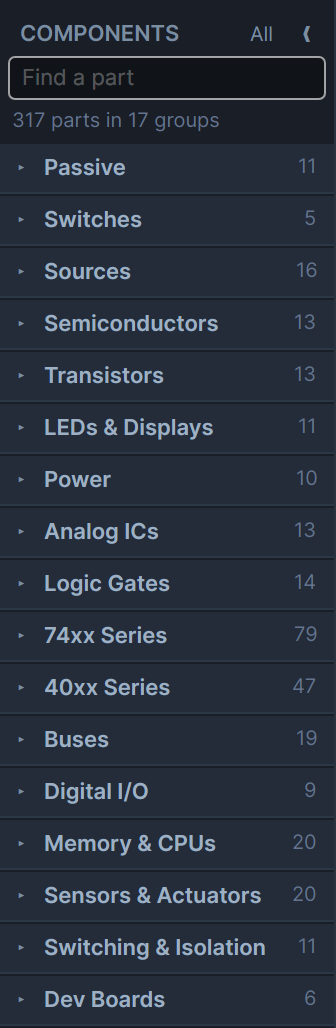
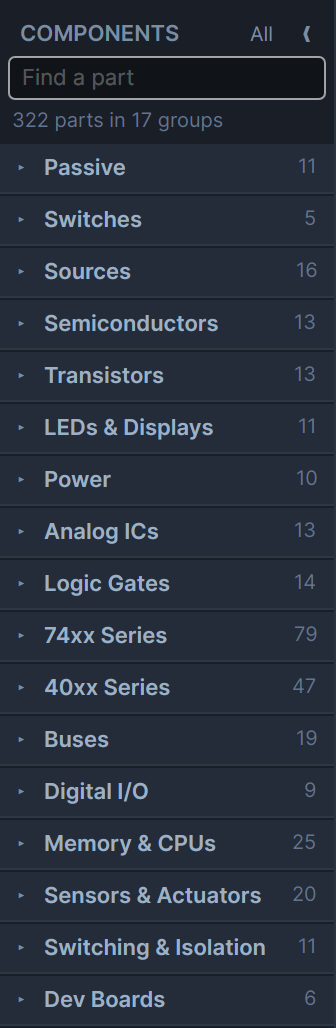
Document 0.46.0: the 6809 and its peripherals, and retake the palette
CHANGELOG gets 0.46.0 with its compare links; README gets the feature
paragraph, the 6809 row in the test table and the counts (322 parts, 112
examples, 37 tools, ten recipes, 4928 tests); AGENTS.md notes where the
6809 lives, how its core yields E cycles and looks a cycle ahead for the
6809E's LIC and AVMA, that the external suite is run locally, and how the
6800-family peripherals act on E. The palette picture is retaken (322
parts, Memory & CPUs 25).

Changed region(s): [[0.0893, 0.0934, 0.6548, 0.1245], [0.8929, 0.8093, 0.9524, 0.8405]]

diff --git a/README.md b/README.md
@@ -52,7 +52,7 @@ Core ← Engine ← Components ← UI, which keeps the whole engine headless-tes
 ```bash
 dotnet run --project src/Cirq.UI     # the editor
 dotnet run --project src/Cirq.Cli    # the same engine, no window
-dotnet test                          # 4780 tests
+dotnet test                          # 4928 tests
 ./scripts/build-guide.sh             # the user guide as a PDF
 ```
 
@@ -617,6 +617,7 @@ one passes against a button that would never have fired.
 | 6502 computer | The self-check running from ROM through the analog solve with no undefined bus reads, the bus cycles a microsecond apart and disassembled, reset holding and restarting, a ROM too slow for a 6 MHz clock giving the wrong bytes, the 6522's ports, Timer 1 free-running a 100-cycle square wave on PB7 while its interrupt is counted, Timer 2 counting PB6 pulses, CA1 interrupting and CA2 handshaking, the 6551's greeting reaching a terminal and the terminal's text echoed back, the HD44780's busy flag and display memory read back, and the examples' ROMs holding exactly the programs the guide prints |
 | 6510, CIA and SID | The 6510's pinout, its port's direction and data registers driving and reading P0-P5 while the RAM underneath takes the writes, reset releasing the port, AEC releasing the buses, and the self-check and bus decode on the shared core; every 6526 register from a program — ports read at the pins through their pull-ups, /PC, both timers continuous and one-shot with PB6 toggling and PB7 pulsing, force load, timer B counting A's underflows, CNT edges and gated by CNT, the time of day set, stopped, latched, rolled over at 11:59 and 12:59 and alarmed, the serial port out MSB first and in on CNT, /FLAG, the mask writes and /IRQ a cycle after its flag; the SID's oscillators, every waveform, the noise register, sync, ring modulation and test, the envelope's datasheet times, exponential decay, sustain, hold at zero and delay bug, the readback registers and the mix; AUDIO OUT at half VDD, the filter's low-, band- and high-pass gain against a second-order response, moving when its capacitors are doubled, resonance at its Q, the 6581's volume offset, and the paddles timed from their R and C; the SID player playing its first bar and the keypad's keys reaching the LCD |
 | 68000 and its peripherals | Results and flags, the user's manual's clocks for each kind of instruction, the reset sequence reading the stack pointer and PC in supervisor program space, every group 1 and 2 exception's stacked PC and SR, the address error's seven-word frame, a bus error, trace, privilege violations from user mode, autovectored and vectored interrupts under the mask, level 7 once per rise, STOP waking on an interrupt, RESET's 124 clocks, a self-checking program assembled by the test-side assembler, the disassembler reading back what was assembled and agreeing with the core on all 65,536 opcodes; on a schematic, ROM and RAM pairs taking words and bytes, one and two wait states from a 74164 DTACK generator, waiting forever without /DTACK, /BERR's bus error, /VPA's 6800 cycle on E and /VMA, the interrupt acknowledge on the pins, /BR and /BG floating the bus, /HALT, /RESET both ways and the bus decode; the 68681's channels to a terminal and looped back with overrun, a break and a framing error, its timer on OP3, counter, output port commands, input port changes and a vectored interrupt; the 68230's bit I/O, double-buffered input and output with their interlocked handshakes, 16-bit mode, port C, timer square wave and both vectored interrupts; the 68901's GPIP edges in software end-of-interrupt mode, timer A's delay-mode interrupts, timer B counting events, timer A measuring a pulse, the USART on timer D to a terminal and the daisy chain passing an acknowledge on; both examples running and their ROM pairs holding exactly the programs the guide prints. Locally the core also matches 995,590 of the 1,000,060 cases of the published 68000 per-instruction suite in every register, byte, bus cycle and clock; the rest are where it follows the manual, and are listed in the guide |
+| 6809 and its peripherals | Results and flags for each instruction group as the programming manual gives them, the manual's cycles for every indexed mode, the dead cycles on the bus, the stacking of IRQ, FIRQ, NMI and the SWIs with the E flag, NMI armed only by loading S, SYNC releasing the bus, CWAI, /HALT, /DMA/BREQ with its refresh cycle, reset through $FFFE, the undefined opcodes, a self-checking program assembled by the test-side assembler, and the disassembler and assembler reading each other back for every documented opcode; on a schematic, the self-check from an EPROM through a real bus on both the 6809 and a 6809E clocked by a 7474, E and Q in quadrature, MRDY stretching cycles, SYNC and /HALT floating the bus with BA and BS, LIC, AVMA, BUSY and TSC, and the bus decode; the 6821's port A reading its loaded pins against port B reading its register, CA1 and CB1 interrupts, CA2's handshake and pulse, CB2's write strobe and /RESET, on the 6809 and from a 68000 through /VPA; the 6850 waiting for its master reset, greeting the terminal and read by the UART decoder, echoing by interrupt, the overrun and lost-carrier sequences, CTS and RTS, 8E1, and sending from a 68000; both examples running and their EPROMs holding exactly the programs the guide prints. Locally the core also matches all 315,000 cases of a published per-instruction 6809 suite in every register, byte and bus cycle |
 | LM339 | Per-channel comparison, wired-AND when outputs are tied, release when unpowered |
 | Regulators | Line and load regulation, dropout, current limiting, LM317 divider programming |
 | BJT | Beta in forward active, saturation, cutoff, exponential Vbe, PNP mirroring, KCL at all three terminals |
@@ -694,7 +695,7 @@ one passes against a button that would never have fired.
 | Arrange | Aligning left, right, top and bottom by the parts' edges and the two centre lines by their middles, a centre being the average so a selection does not drift, distributing leaving the two outermost exactly where they were with equal gaps between the rest, parts already in line left alone so nothing lands in the undo history for a move that did not happen, and everything rounded back onto the grid when snapping is on |
 | Find on sheet | An exact designator beating one that merely starts with the term, values and kinds and net names after that, case never mattering, a named net being one row however many parts are on it, blocks searched inside, and nothing matching nothing |
 | Compare | Two copies of one circuit differing in nothing, a changed value read as one line, parts matched by identity so a renamed and moved part is two changes rather than a removal and an addition, a wire being the pair of pins it joins so redrawing it through a corner or the other way round is not a change, rounding through a save not counting as an edit, probes and requirements and conditions compared, and a summary that counts moves without leading with them |
-| Explain | A divider's tap in volts and a loaded one refused, a low-pass told from a high-pass with the corner, a tuned circuit peaking or dipping, decoupling, pull-ups, an LED's current, an op-amp's gain inverting and non-inverting and as a follower, emitter followers and common-emitter stages, a flyback diode that is not an LED, a 555's frequency and duty — and silence on anything it does not recognise, proved across all 110 shipped examples |
+| Explain | A divider's tap in volts and a loaded one refused, a low-pass told from a high-pass with the corner, a tuned circuit peaking or dipping, decoupling, pull-ups, an LED's current, an op-amp's gain inverting and non-inverting and as a follower, emitter followers and common-emitter stages, a flyback diode that is not an LED, a 555's frequency and duty — and silence on anything it does not recognise, proved across all 112 shipped examples |
 | Design report | A whole HTML document with nothing fetched from anywhere, the verdict before everything else, the schematic as selectable SVG with no stray declaration, requirements coloured by met and not met and not measurable, one row per part and value, the conditions always stated, everything a person typed escaped, and a report without a drawing still a report |
 | Windows | A second editor with its own circuit, simulation, scope and history; a clipboard shared between them because carrying a block across is what they are for; a recovery snapshot each so two cannot overwrite each other's work; and every abandoned snapshot offered back in a window of its own |
 | Colour codes | The value as it is written on the part, drawn beside the numbers — four bands at five percent and five at one, because you cannot promise one percent on a value you only spelled to two figures; gold and silver multipliers that divide, so a 4R7 is yellow-violet-gold; the wider gap that says which end to read from; a ceramic's three digits counted in picofarads and an inductor's bands in microhenries; the tolerance band rounded to the tighter promise rather than the looser one; a value the code cannot spell saying so and saying what it does spell; every marking also read out in words; and an electrolytic given none, because its value is printed on the can in plain microfarads |
@@ -907,7 +908,13 @@ attached to it, and any part that said it had not settled — all of which name 
 drawing to go and look, which "try a smaller time step" does not.
 
 The palette holds 322 components in 17 collapsible categories, with a **Find a part** box
-(`Ctrl+F`) over them. Among the newest: **a 68000 to build a board around** — the MC68000 running
+(`Ctrl+F`) over them. Among the newest: **a 6809 and its peripherals** — the MC6809 running all
+three opcode pages and every indexed mode cycle by cycle on its pins, dead cycles and all, with E and
+Q from its own clock, MRDY, SYNC, CWAI, /HALT and DMA, checked against a published per-instruction
+6809 suite; the 6809E with TSC, LIC, AVMA and BUSY; the 6821 PIA (and the 6520) with its pulled-up
+port A and three-state port B; and the 6850 ACIA clocked from its own pins — with a 6809
+single-board computer running a monitor and a 6821 counting a button's presses by interrupt as
+examples. Before that: **a 68000 to build a board around** — the MC68000 running
 its whole instruction set bus cycle by bus cycle on its 64 pins, waiting on /DTACK, with its
 exceptions, interrupts, 6800 cycles and bus arbitration, checked against the published 68000 test
 suite; the 68681 DUART, 68230 PI/T and 68901 MFP; and memory images in S-records split across a
@@ -933,7 +940,7 @@ tri-state buffer, a TIP120 Darlington, LM35 and TMP36 thermometers, a WS2812B Ne
 matrix keypad, Raspberry Pi Pico and ESP32 boards, and the 7483 / 74283 adders and 74192 / 74193
 up/down counters.
 
-![The component palette: a Find a part box at the top, "317 parts in 17 groups" under it, and the seventeen categories with their counts — passive 11, switches 5, sources 16, semiconductors 13, transistors 13, LEDs and displays 11, power 10, analog ICs 13, logic gates 14, 74xx series 79, 40xx series 47, buses 19, digital I/O 9, memory and CPUs 20, sensors and actuators 20, switching and isolation 11, dev boards 6 — every group closed, so all seventeen headings fit on screen at once](docs/images/02-palette.png)
+![The component palette: a Find a part box at the top, "322 parts in 17 groups" under it, and the seventeen categories with their counts — passive 11, switches 5, sources 16, semiconductors 13, transistors 13, LEDs and displays 11, power 10, analog ICs 13, logic gates 14, 74xx series 79, 40xx series 47, buses 19, digital I/O 9, memory and CPUs 25, sensors and actuators 20, switching and isolation 11, dev boards 6 — every group closed, so all seventeen headings fit on screen at once](docs/images/02-palette.png)
 
 Selecting a component fills the properties panel. It is built by reflection, so a new component
 type gets a complete editor without any UI code:

diff --git a/CHANGELOG.md b/CHANGELOG.md
@@ -8,6 +8,51 @@ Add the new section **before** tagging: the workflow reads the changelog at the 
 
 ## [Unreleased]
 
+## [0.46.0] - 2026-11-05
+
+The Motorola 6809 and its peripherals. An MC6809 that runs all three opcode pages and every indexed
+mode cycle by cycle on its 40 pins — dead cycles and all — with its own E and Q clock, and the
+6809E clocked from outside; the 6821 PIA (and the 6520) and the 6850 ACIA to build a board with,
+and to hang on a 68000. Two 6809 computers as examples. 322 components in 17 categories, 112 worked
+examples, 4928 tests.
+
+### Added
+
+**The MC6809**, written from Motorola's datasheet and programming manual: every instruction on its
+three opcode pages, every addressing mode — the indexed ones with their constant, accumulator and
+PC offsets, auto increment and decrement and every indirect form — at the manual's cycle counts,
+TFR and EXG, the two stacks, SYNC and CWAI, SWI, SWI2 and SWI3, FIRQ stacking only PC and CC where
+NMI and IRQ stack everything, and NMI held off until the program has loaded S. Every cycle is on the
+bus as the chip puts it there, the dead ($FFFF) cycles included. The opcodes Motorola left
+undefined run deterministically, as the guide lists. Checked against a published per-instruction
+6809 suite (315,000 cases, every bus cycle of each): it agrees with all of them, and the guide says
+where the suite comes from and what that means.
+
+**The 6809's pins.** EXTAL at four times the bus rate, E and Q out in quadrature; MRDY stretching a
+slow cycle a quarter at a time; BA and BS saying whether it is running, fetching a vector, in SYNC or
+halted; /HALT and /DMA/BREQ letting go of the bus; /IRQ, /FIRQ and /NMI; reset through $FFFE. **The
+6809E** takes E and Q in and adds TSC, LIC, AVMA and BUSY.
+
+**The 6821 PIA** — two ports with direction registers, CA1/CB1 interrupts on the edge you choose,
+CA2/CB2 as inputs or as handshake, pulse or manual outputs, and port A's pull-ups against port B's
+three-state drivers, as on the real part. **The 6520** is the same chip from MOS. **The 6850 ACIA** —
+every word format, ÷1, ÷16 and ÷64, the documented overrun and lost-carrier sequences, CTS and RTS,
+and its clocks taken from its own pins. Both work on a 68000 through /VPA, /VMA and E, and the 6850
+talks to the Serial Terminal.
+
+**Two examples in File > Examples > Computers.** *6809 Single-Board Computer*: an EPROM, a RAM, a
+74138 and a 7400 decoding, and a 6850 clocked from E at 115,200 baud running a small monitor that
+dumps memory for the terminal. *6809 PIA Button Counter*: the same board with a 6821 driving an
+HD44780 and counting a button's presses by interrupt from CA1. The guide prints both programs; a
+test checks the EPROMs hold them.
+
+**Simulate > Decode Bus** reads a 6809's bus: each cycle, the dead ones and the vector reads marked,
+and each instruction disassembled where it starts.
+
+**Agent tools.** `cpu_state` and `disassemble` work for the 6809 (its registers, DP and CC and its
+flags, its cycles; its code with the vectors), `peripheral_state` reports a 6821, 6520 or 6850, and a
+`computer_6809` recipe tours the example. 37 tools and ten recipes.
+
 ## [0.45.0] - 2026-11-05
 
 The Motorola 68000 and its peripherals. An MC68000 that runs its whole instruction set bus cycle by
@@ -2666,7 +2711,8 @@ First public build of CirqAvalonia — an electronic circuit analyzer and mixed-
 
 **501 tests** measure the solver against closed-form answers rather than recorded output.
 
-[Unreleased]: https://github.com/Harlock123/CIRQAvalonia/compare/v0.45.0...HEAD
+[Unreleased]: https://github.com/Harlock123/CIRQAvalonia/compare/v0.46.0...HEAD
+[0.46.0]: https://github.com/Harlock123/CIRQAvalonia/compare/v0.45.0...v0.46.0
 [0.45.0]: https://github.com/Harlock123/CIRQAvalonia/compare/v0.44.1...v0.45.0
 [0.44.1]: https://github.com/Harlock123/CIRQAvalonia/compare/v0.44.0...v0.44.1
 [0.44.0]: https://github.com/Harlock123/CIRQAvalonia/compare/v0.43.0...v0.44.0

diff --git a/AGENTS.md b/AGENTS.md
@@ -50,6 +50,11 @@ dotnet run --project src/Cirq.UI -- --mcp      # the MCP server on stdio, headle
     instructions), `Cpu68000` (the DIP-64 part, its S0-S7 states on CLK), `M68000Disassembler`,
     `Cpu68000BusDecoder`, and the peripherals `Duart68681`, `Pit68230` and `Mfp68901`, the two UARTs
     sharing `SerialLine`.
+  - And the 6809: `M6809Core` (two partial files: the bus and interrupts, the addressing and
+    instructions), `Opcodes6809` (the three opcode pages and the disassembler), `Cpu6809.cs`
+    (`Processor6809`, with `Cpu6809` clocked from EXTAL and `Cpu6809E` from E and Q pins),
+    `Cpu6809BusDecoder`, and the 6800-family peripherals `Pia6821.cs` (`PeripheralInterfaceAdapter`,
+    the `Pia6821` and `Pia6520` parts) and `Acia6850`, which also uses `SerialLine`.
   - `Serialization/` reads and writes `.cirq` files (indented JSON).
   - `Spice/` imports and exports SPICE models and netlists.
 - `src/Cirq.UI/`: the Avalonia editor.
@@ -136,6 +141,22 @@ dotnet run --project src/Cirq.UI -- --mcp      # the MCP server on stdio, headle
   the suite and Motorola's manual disagree (ADDQ.L/SUBQ.L to An timing, ASR's carry past the width)
   the core follows the manual; the guide lists the counts. The 68000 examples' ROMs are byte arrays
   in `Examples.M68000.cs`, checked against the guide's source by a UI test.
+- **The 6809 core is a sequence of bus cycles as well.** `M6809Core` yields once per E cycle, dead
+  cycles ($FFFF reads) and don't-care reads included; `FirstCycle` marks where an instruction (or an
+  interrupt sequence) starts, and `Step` runs to the next. The 6809E's LIC and AVMA need the next
+  cycle before this one's data: `PeekNext` replays the instruction so far on a copy of the core
+  (`TracksNextCycle` keeps what it needs, on for the 6809E only), so a change to the core's cycles
+  carries into those pins by itself. Test with `Cpu6809CoreTests` (the test-side `Assembler6809`,
+  which reads back everything the disassembler prints), `Cpu6809CircuitTests` (a board with a 2764,
+  a 62256, a 74138 and a 7400, which the PIA and ACIA tests reuse; a 7474 makes a 6809E's E and Q),
+  and locally against the SingleStepTests-format suite `neetandev/m6809` (`v1`, MAME as its
+  oracle), downloaded outside the repository and never committed. The 6809 examples' EPROM images
+  are byte arrays in `Examples.M6809.cs`, checked against the guide's source by a UI test.
+- **6800-family peripherals act on E.** The 6821 and 6850 latch a write and do a read's side
+  effects as E falls, and drive a read while E is high and they are selected, so on a 68000 they
+  want /VPA from the decode and /VMA on a chip select. The 6821's port A pull-ups are stamped
+  resistors (`PeripheralInterfaceAdapter.PullUpResistance`); the 6850 times its bits from the
+  measured period of its TxCLK and RxCLK pins.
 - **One 6502 core, several packages.** `Processor6502` builds its pins from a `ProcessorPackage`
   (65C02, 6502, 6510); the core is shared, never copied. The 6510's port lives in `Processor6510`
   through the base's hooks (`ReadInternal`, `WriteInternal`, `EndCycle`, `ResetPort`): a $0000/$0001

diff --git a/docs/USER_GUIDE.md b/docs/USER_GUIDE.md
@@ -169,7 +169,7 @@ Three of those are worth separating, because they are easy to confuse:
 
 ## Placing components
 
-![The component palette: a Find a part box at the top, "317 parts in 17 groups" under it, and the seventeen categories with their counts — passive 11, switches 5, sources 16, semiconductors 13, transistors 13, LEDs and displays 11, power 10, analog ICs 13, logic gates 14, 74xx series 79, 40xx series 47, buses 19, digital I/O 9, memory and CPUs 20, sensors and actuators 20, switching and isolation 11, dev boards 6 — every group closed, so all seventeen headings fit on screen at once](images/02-palette.png)
+![The component palette: a Find a part box at the top, "322 parts in 17 groups" under it, and the seventeen categories with their counts — passive 11, switches 5, sources 16, semiconductors 13, transistors 13, LEDs and displays 11, power 10, analog ICs 13, logic gates 14, 74xx series 79, 40xx series 47, buses 19, digital I/O 9, memory and CPUs 25, sensors and actuators 20, switching and isolation 11, dev boards 6 — every group closed, so all seventeen headings fit on screen at once](images/02-palette.png)
 
 Click a palette entry, then click the canvas. The part lands where you click, snapped to the grid.
 
